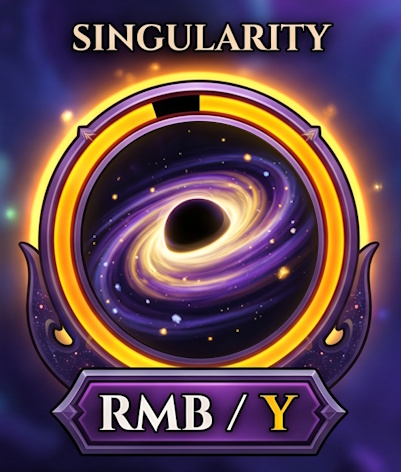
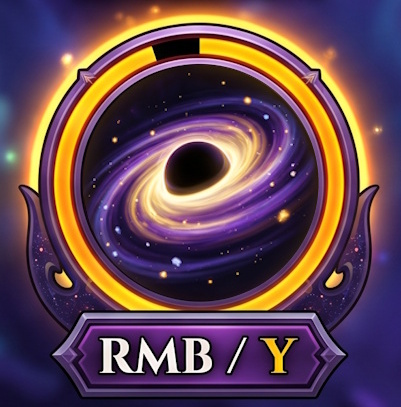
updating astral plane level design and enemies section

diff --git a/v2.0.0.html b/v2.0.0.html
@@ -76,7 +76,11 @@
             }
 
             .grid-hud {
-                grid-template-columns: 1fr !important;
+                grid-template-columns: 1fr 1fr !important;
+            }
+
+            .grid-hud>div:last-child {
+                grid-column: 1 / -1 !important;
             }
 
             .loop-col {
@@ -130,9 +134,17 @@
             }
         }
 
-        @media (max-width: 480px) {
+        @media (max-width: 460px) {
             .grid-4 {
                 grid-template-columns: 1fr !important;
+            }
+
+            .grid-hud {
+                grid-template-columns: 1fr !important;
+            }
+
+            .grid-hud>div:last-child {
+                grid-column: auto !important;
             }
         }
     </style>
@@ -405,80 +417,77 @@
                     <h3
                         style="font-family:'Cinzel',serif; font-weight:600; font-size:24px; margin:0 0 12px; color:#f4f0e6;">
                         Reading the HUD</h3>
-                    <div class="grid-hud"
-                        style="display:grid; grid-template-columns:1fr 1fr 2fr; gap:24px; margin-top:20px;">
+                    <div class="grid-hud" style="display:grid; grid-template-columns:1fr 1fr 1.3fr; gap:24px;">
                         <div
-                            style="background:linear-gradient(180deg, rgba(232,200,116,0.07), rgba(255,255,255,0.02)); border:1px solid rgba(232,200,116,0.24); border-radius:14px; overflow:hidden; display:flex; flex-direction:column; box-shadow:0 12px 32px rgba(0,0,0,0.3);">
+                            style="background:linear-gradient(180deg, rgba(232,200,116,0.08), rgba(255,255,255,0.02)); border:1px solid rgba(232,200,116,0.26); border-radius:14px; overflow:hidden; display:flex; flex-direction:column; box-shadow:0 8px 24px rgba(0,0,0,0.4);">
                             <img src="assets/KineticPunch.jpg" alt="Kinetic Punch"
-                                style="width:100%; height:auto; display:block; border-bottom:1px solid rgba(232,200,116,0.24);" />
-                            <div style="padding:20px; display:flex; flex-direction:column; flex:1;">
+                                style="width:100%; height:auto; display:block; border-bottom:1px solid rgba(232,200,116,0.26);" />
+                            <div style="padding:22px; display:flex; flex-direction:column; flex:1;">
                                 <h4
                                     style="font-family:'Cinzel',serif; font-weight:700; font-size:17px; color:#e8c874; margin:0 0 10px;">
                                     Kinetic Punch</h4>
                                 <p style="margin:0; font-size:14px; color:#b9bdd0; line-height:1.6;">Always available.
-                                    Its HUD icon displays the bound button (LMB / X). <strong style="color:#f4f0e6;">No
-                                        need for any tutorial.</strong> This, the main attack, uses a dynamic damage
-                                    drop-off rule. It acts as a heavy melee-style attack at close range but scales down
-                                    to do fewer damage points when the wave hits from afar.</p>
+                                    Its HUD icon displays the bound button (LMB / X). Dynamic damage drop-off: heavy
+                                    melee at close range, scaling down over distance.</p>
                             </div>
                         </div>
                         <div
-                            style="background:linear-gradient(180deg, rgba(177,139,255,0.08), rgba(255,255,255,0.02)); border:1px solid rgba(177,139,255,0.26); border-radius:14px; overflow:hidden; display:flex; flex-direction:column; box-shadow:0 12px 32px rgba(0,0,0,0.3);">
+                            style="background:linear-gradient(180deg, rgba(177,139,255,0.09), rgba(255,255,255,0.02)); border:1px solid rgba(177,139,255,0.28); border-radius:14px; overflow:hidden; display:flex; flex-direction:column; box-shadow:0 8px 24px rgba(0,0,0,0.4);">
                             <img src="assets/Singularity.jpg" alt="Singularity"
-                                style="width:100%; height:auto; display:block; border-bottom:1px solid rgba(177,139,255,0.26);" />
-                            <div style="padding:20px; display:flex; flex-direction:column; flex:1;">
+                                style="width:100%; height:auto; display:block; border-bottom:1px solid rgba(177,139,255,0.28);" />
+                            <div style="padding:22px; display:flex; flex-direction:column; flex:1;">
                                 <h4
                                     style="font-family:'Cinzel',serif; font-weight:700; font-size:17px; color:#b18bff; margin:0 0 10px;">
                                     Singularity</h4>
-                                <p style="margin:0; font-size:14px; color:#b9bdd0; line-height:1.6;">Gated by a <strong
-                                        style="color:#f4f0e6;">charge ring</strong> that wraps its HUD icon, tagged with
-                                    its bound button (RMB / Y). It fills clockwise from the top as the player deals
-                                    damage to enemies and as time elapses. When the ring completes, the icon lights and
-                                    Singularity can be unleashed. Once triggered, the gravity event holds for <strong
-                                        style="color:#f4f0e6;">3 seconds</strong> <span style="color:#8489a0;">(tunable
-                                        in playtesting)</span>.</p>
+                                <p style="margin:0; font-size:14px; color:#b9bdd0; line-height:1.6;">Gated by a charge
+                                    ring wrapping its HUD icon (RMB / Y). Fills clockwise from the top as you deal
+                                    damage and time elapses. Holds for <strong style="color:#f4f0e6;">3 seconds</strong>
+                                    once unleashed.</p>
                             </div>
                         </div>
                         <div
-                            style="background:linear-gradient(180deg, rgba(95,216,234,0.07), rgba(255,255,255,0.02)); border:1px solid rgba(95,216,234,0.22); border-radius:14px; overflow:hidden; display:flex; flex-direction:column; box-shadow:0 12px 32px rgba(0,0,0,0.3);">
+                            style="background:linear-gradient(180deg, rgba(95,216,234,0.08), rgba(255,255,255,0.02)); border:1px solid rgba(95,216,234,0.24); border-radius:14px; overflow:hidden; display:flex; flex-direction:column; box-shadow:0 8px 24px rgba(0,0,0,0.4);">
                             <img src="assets/Lucidity.jpg" alt="Lucidity Meter"
-                                style="width:100%; height:auto; display:block; border-bottom:1px solid rgba(95,216,234,0.22);" />
-                            <div style="padding:20px; display:flex; flex-direction:column; flex:1;">
+                                style="width:100%; height:auto; display:block; border-bottom:1px solid rgba(95,216,234,0.24);" />
+                            <div style="padding:22px; display:flex; flex-direction:column; flex:1;">
                                 <h4
                                     style="font-family:'Cinzel',serif; font-weight:700; font-size:17px; color:#5fd8ea; margin:0 0 10px;">
                                     Lucidity Meter</h4>
-                                <p style="margin:0; font-size:14px; color:#b9bdd0; line-height:1.6;">The player's
-                                    health is tracked by the <strong style="color:#f4f0e6;">Lucid meter</strong>. If it
-                                    empties to <strong style="color:#f4f0e6;">0</strong>, the player is <strong
-                                        style="color:#f4f0e6;">knocked out of the astral plane</strong>. A short
-                                    cutscene carries them back to reality and then re-immerses them into the Astral
-                                    Plane. On continuing, they resume at the <strong style="color:#f4f0e6;">start of the
-                                        same wave</strong>, their last checkpoint.</p>
+                                <p style="margin:0; font-size:14px; color:#b9bdd0; line-height:1.6;">Player health.
+                                    Depleting to zero knocks you out of the astral plane into a brief cutscene, then
+                                    re-immerses you at the start of the same wave checkpoint.</p>
                             </div>
                         </div>
                     </div>
                 </div>
 
-                <!-- Wave Progression -->
-                <div style="margin-bottom:44px;">
-                    <div
-                        style="font-family:'IBM Plex Mono',monospace; font-size:11px; color:#e8c874; letter-spacing:0.2em; text-transform:uppercase; margin-bottom:6px;">
-                        Wave Progression</div>
-                    <h3
-                        style="font-family:'Cinzel',serif; font-weight:600; font-size:24px; margin:0 0 12px; color:#f4f0e6;">
-                        Riding the Soul-Currents</h3>
-                    <p style="margin:0 0 14px; font-size:15.5px; color:#b9bdd0;">
-                        Combat is paced in <strong style="color:#f4f0e6;">waves</strong>. Destroy a set number of astral
-                        beings <span style="color:#8489a0;">(count tuned during playtesting)</span>, the world pulls the
-                        player forward: a <strong style="color:#f4f0e6;">warp through a soul-current</strong>,
-                        a rushing nebular cloud-ring that carries the player deeper into the Astral Plane. <strong
-                            style="color:#f4f0e6;">Progression is saved here.</strong></p>
-                    <p style="margin:0; font-size:15.5px; color:#b9bdd0;">
-                        Each warp reframes the goal: the crystalline structure looms <strong
-                            style="color:#f4f0e6;">closer and more centered</strong> in view, and the emissary companion
-                        marks the moment aloud, <em style="color:#e8c874;">"We're getting closer!"</em> Distinctly
-                        calling out, <em style="color:#e8c874;">"This looks like the last wave!"</em>, before
-                        the final push toward the fortress.</p>
+                <!-- WAVE PROGRESSION -->
+                <div
+                    style="border-left:3px solid rgba(232,200,116,0.6); background:rgba(232,200,116,0.06); padding:28px 0 28px 28px; border-radius:0 12px 12px 0;">
+                    <div style="margin-bottom:16px;">
+                        <div
+                            style="font-family:'IBM Plex Mono',monospace; font-size:11px; color:#e8c874; letter-spacing:0.2em; text-transform:uppercase; margin-bottom:8px;">
+                            Wave Progression</div>
+                        <h3
+                            style="font-family:'Cinzel',serif; font-weight:600; font-size:24px; margin:0 0 14px; color:#f4f0e6;">
+                            Riding the Soul-Currents</h3>
+                    </div>
+                    <div style="max-width:760px;">
+                        <p style="margin:0 0 14px; font-size:15.5px; color:#b9bdd0; line-height:1.65;">Combat paces in
+                            <strong style="color:#f4f0e6;">waves</strong>. Destroy a set number of astral beings and the
+                            world pulls you
+                            forward: a <strong style="color:#f4f0e6;">warp through a soul-current</strong>, a rushing
+                            nebular
+                            cloud-ring carrying you deeper. <strong style="color:#f4f0e6;">Progression saves
+                                here.</strong>
+                        </p>
+                        <p style="margin:0; font-size:15.5px; color:#b9bdd0; line-height:1.65;">Each warp reframes the
+                            goal: the
+                            crystalline structure looms <strong style="color:#f4f0e6;">closer and more
+                                centered</strong>, and your
+                            companion marks the moment aloud. Before the final wave, they distinctly call, <em
+                                style="color:#e8c874;">"This looks like the last wave!"</em></p>
+                    </div>
                 </div>
             </section>
 
@@ -501,92 +510,95 @@
                             style="font-family:'IBM Plex Mono',monospace; font-size:10.5px; letter-spacing:0.28em; text-transform:uppercase; color:#e8c874; margin-bottom:14px;">
                             The Astral Plane</div>
                         <p style="margin:0 0 18px; color:#cfd2e0; text-wrap:pretty;">A galactic, flowing cosmic corridor
-                            thick
-                            with drifting star-matter, luminous nebulae, and soul-currents. Movement here feels
-                            weightless and fluid, a suspension between worlds.</p>
-                        <p style="margin:0; color:#cfd2e0; text-wrap:pretty;">Far off in the distance stands a
-                            destructible
-                            crystalline structure. The player must reach and destroy it to complete the Gameplay Demo.
+                            thick with drifting star-matter, luminous nebulae, and soul-currents to provide frame of
+                            reference. Movement here feels weightless and fluid, a suspension between worlds.</p>
+                        <p style="margin:0; color:#cfd2e0; text-wrap:pretty;">Far off in the distance stands the
+                            destructible crystalline structure that gets closer as the playre progresses through the
+                            Gameplay Demo.
                         </p>
                     </div>
                     <div
                         style="position:relative; border-radius:14px; overflow:hidden; border:1px solid rgba(177,139,255,0.28); box-shadow:0 20px 60px rgba(0,0,0,0.5);">
-                        <img src="assets/wraith.jpg" alt="Astral Wraith encounter"
+                        <img src="assets/player_proto.jpg" alt="The Astral Plane"
                             style="display:block; width:100%; height:auto;" />
                     </div>
-                    <div>&nbsp;</div>
-                    <p style="margin: 4px 0 0; font-size: 13px; color: #8f94a8; font-style: italic; text-align: left;">*
-                        inspiration only, no knights will be in the game</p>
                 </div>
 
-                <!-- ASTRAL BEINGS ROSTER -->
-                <div style="margin-top:44px;">
-                    <div
-                        style="font-family:'IBM Plex Mono',monospace; font-size:11px; color:#e8c874; letter-spacing:0.2em; text-transform:uppercase; margin-bottom:6px;">
-                        The Astral Beings</div>
-                    <h3
-                        style="font-family:'Cinzel',serif; font-weight:600; font-size:24px; margin:0 0 8px; color:#f4f0e6;">
-                        Guardians of the Soul Sphere</h3>
-                    <p style="margin:0 0 26px; font-size:15.5px; color:#b9bdd0; max-width:760px;">
-                        Three classes of astral being defend the crystalline structure, each wielding a facet of the
-                        Astral Plane's gravity. The player carves through waves of the first two before facing the
-                        warden that guards the Sphere itself.</p>
+                <!-- ASTRAL BEINGS -->
+                <div>
+                    <div style="margin:28px 0;">
+                        <div
+                            style="font-family:'IBM Plex Mono',monospace; font-size:11px; color:#e8c874; letter-spacing:0.2em; text-transform:uppercase; margin-bottom:8px;">
+                            The Astral Beings</div>
+                        <h3
+                            style="font-family:'Cinzel',serif; font-weight:600; font-size:24px; margin:0 0 14px; color:#f4f0e6;">
+                            Guardians of the Soul Sphere</h3>
+                        <p style="margin:0; font-size:15.5px; color:#b9bdd0; max-width:760px; line-height:1.65;">Three
+                            classes
+                            defend the crystalline structure, each wielding a facet of the Astral Plane's gravity. You
+                            carve through
+                            waves of the first two before facing the warden that guards the Sphere itself.</p>
+                    </div>
 
-                    <div class="grid-3"
-                        style="display:grid; grid-template-columns:repeat(3,1fr); gap:24px; align-items:stretch;">
+                    <div class="grid-3" style="display:grid; grid-template-columns:repeat(3,1fr); gap:20px;">
 
                         <!-- RANGED -->
                         <div
-                            style="border:1px solid rgba(232,200,116,0.16); border-radius:6px; overflow:hidden; background:rgba(232,200,116,0.02); display:flex; flex-direction:column;">
-                            <img src="assets/enemy_ranged.jpg" alt="Ranged astral being"
-                                style="width:100%; aspect-ratio:4/3; object-fit:cover; display:block; border-bottom:1px solid rgba(232,200,116,0.16);">
-                            <div style="padding:18px 20px;">
+                            style="border:1px solid rgba(232,200,116,0.18); border-radius:8px; overflow:hidden; background:rgba(232,200,116,0.03); display:flex; flex-direction:column; transition:all 0.3s ease;">
+                            <img src="assets/ranged.jpg" alt="Void Caster"
+                                style="width:100%; aspect-ratio:4/3; object-fit:cover; display:block; border-bottom:1px solid rgba(232,200,116,0.18);">
+                            <div style="padding:20px; display:flex; flex-direction:column; flex:1;">
                                 <div
-                                    style="font-family:'IBM Plex Mono',monospace; font-size:10px; color:#e8c874; letter-spacing:0.2em; text-transform:uppercase; margin-bottom:6px;">
+                                    style="font-family:'IBM Plex Mono',monospace; font-size:10px; color:#e8c874; letter-spacing:0.2em; text-transform:uppercase; margin-bottom:8px;">
                                     Ranged</div>
                                 <h4
-                                    style="font-family:'Cinzel',serif; font-weight:600; font-size:19px; margin:0 0 8px; color:#f4f0e6;">
+                                    style="font-family:'Cinzel',serif; font-weight:600; font-size:19px; margin:0 0 10px; color:#f4f0e6;">
                                     Void Caster</h4>
-                                <p style="margin:0; font-size:14.5px; color:#b9bdd0;">Hangs back at the edge of the
+                                <p style="margin:0; font-size:14.5px; color:#b9bdd0; line-height:1.6;">Hangs back at the
+                                    edge of the
                                     fray, hurling gravity-charged projectiles across the soul-currents. Low health, but
-                                    punishes a player who hovers in the open, forcing constant repositioning.</p>
+                                    pressures you
+                                    into constant repositioning.</p>
                             </div>
                         </div>
 
                         <!-- MELEE -->
                         <div
-                            style="border:1px solid rgba(232,200,116,0.16); border-radius:6px; overflow:hidden; background:rgba(232,200,116,0.02); display:flex; flex-direction:column;">
-                            <img src="assets/enemy_melee.jpg" alt="Melee astral being"
-                                style="width:100%; aspect-ratio:4/3; object-fit:cover; display:block; border-bottom:1px solid rgba(232,200,116,0.16);">
-                            <div style="padding:18px 20px;">
+                            style="border:1px solid rgba(232,200,116,0.18); border-radius:8px; overflow:hidden; background:rgba(232,200,116,0.03); display:flex; flex-direction:column; transition:all 0.3s ease;">
+                            <img src="assets/melee.jpg" alt="Rift Stalker"
+                                style="width:100%; aspect-ratio:4/3; object-fit:cover; display:block; border-bottom:1px solid rgba(232,200,116,0.18);">
+                            <div style="padding:20px; display:flex; flex-direction:column; flex:1;">
                                 <div
-                                    style="font-family:'IBM Plex Mono',monospace; font-size:10px; color:#e8c874; letter-spacing:0.2em; text-transform:uppercase; margin-bottom:6px;">
+                                    style="font-family:'IBM Plex Mono',monospace; font-size:10px; color:#e8c874; letter-spacing:0.2em; text-transform:uppercase; margin-bottom:8px;">
                                     Melee</div>
                                 <h4
-                                    style="font-family:'Cinzel',serif; font-weight:600; font-size:19px; margin:0 0 8px; color:#f4f0e6;">
+                                    style="font-family:'Cinzel',serif; font-weight:600; font-size:19px; margin:0 0 10px; color:#f4f0e6;">
                                     Rift Stalker</h4>
-                                <p style="margin:0; font-size:14.5px; color:#b9bdd0;">Swarms in fast, closing distance
-                                    to
-                                    strike at close range. Pressures the player into kinetic-punch knockbacks and makes
-                                    Singularity ideal for clustering and imploding a pack at once.</p>
+                                <p style="margin:0; font-size:14.5px; color:#b9bdd0; line-height:1.6;">Swarms in fast,
+                                    closing
+                                    distance to strike at close range. Pressures you into kinetic-punch knockbacks and
+                                    makes Singularity
+                                    ideal for clustering a pack.</p>
                             </div>
                         </div>
 
                         <!-- BOSS -->
                         <div
-                            style="border:1px solid rgba(232,200,116,0.35); border-radius:6px; overflow:hidden; background:rgba(232,200,116,0.05); display:flex; flex-direction:column;">
-                            <img src="assets/enemy_boss.jpg" alt="Boss astral being"
+                            style="border:1px solid rgba(232,200,116,0.35); border-radius:8px; overflow:hidden; background:rgba(232,200,116,0.06); display:flex; flex-direction:column; box-shadow:0 4px 16px rgba(232,200,116,0.1);">
+                            <img src="assets/boss_angel.jpg" alt="Crystalline Warden"
                                 style="width:100%; aspect-ratio:4/3; object-fit:cover; display:block; border-bottom:1px solid rgba(232,200,116,0.35);">
-                            <div style="padding:18px 20px;">
+                            <div style="padding:20px; display:flex; flex-direction:column; flex:1;">
                                 <div
-                                    style="font-family:'IBM Plex Mono',monospace; font-size:10px; color:#e8c874; letter-spacing:0.2em; text-transform:uppercase; margin-bottom:6px;">
+                                    style="font-family:'IBM Plex Mono',monospace; font-size:10px; color:#e8c874; letter-spacing:0.2em; text-transform:uppercase; margin-bottom:8px;">
                                     Boss</div>
                                 <h4
-                                    style="font-family:'Cinzel',serif; font-weight:600; font-size:19px; margin:0 0 8px; color:#f4f0e6;">
+                                    style="font-family:'Cinzel',serif; font-weight:600; font-size:19px; margin:0 0 10px; color:#f4f0e6;">
                                     The Crystalline Warden</h4>
-                                <p style="margin:0; font-size:14.5px; color:#b9bdd0;">The final threat, bound to the
-                                    crystalline structure it protects. Blends the Void Caster's ranged barrages with the
-                                    Rift Stalker's aggression, gating the last wave and the demo's closing cutscene.</p>
+                                <p style="margin:0; font-size:14.5px; color:#b9bdd0; line-height:1.6;">The final threat,
+                                    bound to the
+                                    crystalline structure. Blends ranged barrages with melee aggression, gating the last
+                                    wave and the
+                                    demo's closing cutscene.</p>
                             </div>
                         </div>
 
@@ -1182,38 +1194,72 @@
                 heroVid.src = 'assets/astral_plane_traversal.mp4';
             }
 
-            // Wraith Image Video Swap
-            const wraithImg = document.querySelector('img[src="assets/wraith.jpg"]');
-            if (wraithImg) {
-                const wraithVid = document.createElement('video');
-                wraithVid.autoplay = true;
-                wraithVid.loop = true;
-                wraithVid.muted = true;
-                wraithVid.playsInline = true;
-                wraithVid.style.cssText = 'display:block; width:100%; height:100%; position:absolute; inset:0; object-fit:cover;';
+            // Crystal Warden / Boss Angel Image Video Swap
+            const crystalWarden = document.querySelector('img[src="assets/boss_angel.jpg"]');
+            if (crystalWarden) {
+                const crystalWardenVid = document.createElement('video');
+                crystalWardenVid.autoplay = true;
+                crystalWardenVid.loop = true;
+                crystalWardenVid.muted = true;
+                crystalWardenVid.playsInline = true;
+                crystalWardenVid.style.cssText = 'display:block; width:100%; height:100%; position:absolute; inset:0; object-fit:cover;';
 
                 const wrapper = document.createElement('div');
                 wrapper.style.position = 'relative';
                 wrapper.style.display = 'block';
                 wrapper.style.width = '100%';
-                wraithImg.parentNode.insertBefore(wrapper, wraithImg);
-                wrapper.appendChild(wraithVid);
-                wrapper.appendChild(wraithImg);
+                crystalWarden.parentNode.insertBefore(wrapper, crystalWarden);
+                wrapper.appendChild(crystalWardenVid);
+                wrapper.appendChild(crystalWarden);
 
-                wraithImg.style.position = 'relative';
-                wraithImg.style.zIndex = '1';
+                crystalWarden.style.position = 'relative';
+                crystalWarden.style.zIndex = '1';
 
-                wraithVid.addEventListener('canplay', () => {
-                    wraithVid.play().then(() => {
-                        wraithImg.style.transition = 'opacity 0.5s ease';
-                        wraithImg.style.opacity = '0';
+                crystalWardenVid.addEventListener('canplay', () => {
+                    crystalWardenVid.play().then(() => {
+                        crystalWarden.style.transition = 'opacity 0.5s ease';
+                        crystalWarden.style.opacity = '0';
                         setTimeout(() => {
-                            wraithImg.style.pointerEvents = 'none';
+                            crystalWarden.style.pointerEvents = 'none';
                         }, 500);
                     }).catch(() => { });
                 }, { once: true });
 
-                wraithVid.src = 'assets/astral_wraith_enemy.mp4';
+                crystalWardenVid.src = 'assets/boss_angel_motion.mp4';
+            }
+
+            // Astral Plane Image Video Swap
+            const astralPlane = document.querySelector('img[src="assets/player_proto.jpg"]');
+            if (astralPlane) {
+                const astralPlaneVid = document.createElement('video');
+                astralPlaneVid.autoplay = true;
+                astralPlaneVid.loop = true;
+                astralPlaneVid.muted = true;
+                astralPlaneVid.playsInline = true;
+                astralPlaneVid.style.cssText = 'display:block; width:100%; height:100%; position:absolute; inset:0; object-fit:cover;';
+
+                const wrapper = document.createElement('div');
+                wrapper.style.position = 'relative';
+                wrapper.style.display = 'block';
+                wrapper.style.width = '100%';
+                astralPlane.parentNode.insertBefore(wrapper, astralPlane);
+                wrapper.appendChild(astralPlaneVid);
+                wrapper.appendChild(astralPlane);
+
+                astralPlane.style.position = 'relative';
+                astralPlane.style.zIndex = '1';
+
+                astralPlaneVid.addEventListener('canplay', () => {
+                    astralPlaneVid.play().then(() => {
+                        astralPlane.style.transition = 'opacity 0.5s ease';
+                        astralPlane.style.opacity = '0';
+                        setTimeout(() => {
+                            astralPlane.style.pointerEvents = 'none';
+                        }, 500);
+                    }).catch(() => { });
+                }, { once: true });
+
+                astralPlaneVid.src = 'assets/astral_plane_motion.mp4';
             }
         });
     </script>